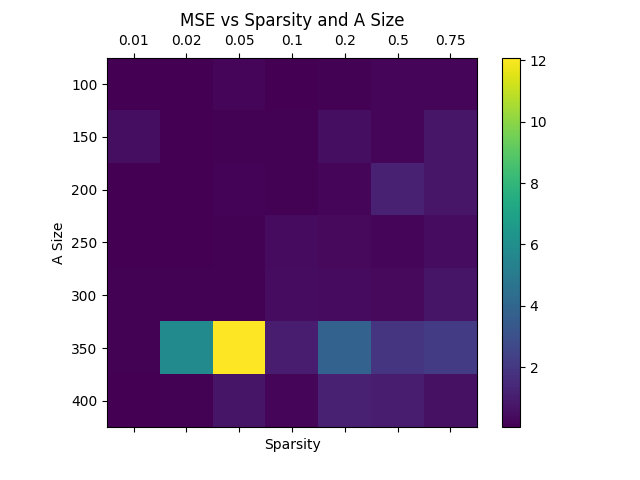
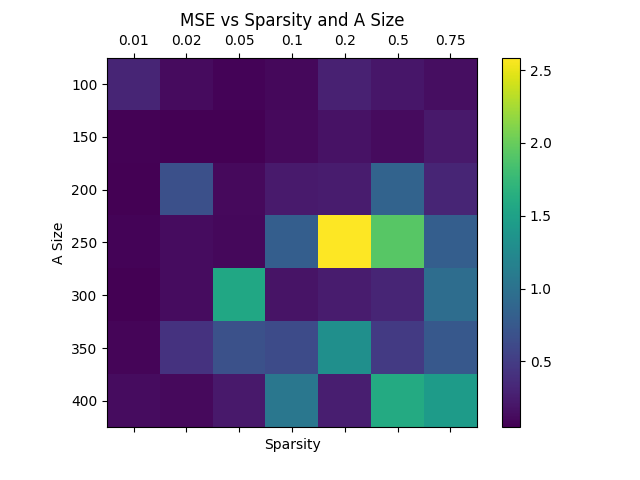
Manual Lasso

diff --git a/manual_lasso.py b/manual_lasso.py
@@ -1,0 +1,128 @@
+import numpy as np
+from typing import List, Any
+import matplotlib.pyplot as plt
+from sklearn.linear_model import Lasso
+from sklearn.model_selection import train_test_split, GridSearchCV
+from sklearn.metrics import mean_squared_error
+from typing import List, Any
+
+
+np.random.seed(200)
+
+x_size = 500
+A_probability = 0.5
+q = 1
+z_mean = 0
+sparsity_arr = [0.01, 0.02, 0.05, 0.1, 0.2, 0.5, 0.75]
+A_size_arr = [100, 150, 200, 250, 300, 350, 400]
+sigma_arr = [4]
+lambda_values = np.logspace(-4, 0, 50)
+
+
+def plot_mse(mse: List[Any], file_name) -> None:
+    fig, ax = plt.subplots()
+    cax = ax.matshow(mse, cmap='viridis')
+    fig.colorbar(cax)
+    
+    ax.set_xticks(np.arange(len(sparsity_arr)))
+    ax.set_xticklabels([str(s) for s in sparsity_arr])
+    ax.set_xlabel('Sparsity')
+
+    ax.set_yticks(np.arange(len(A_size_arr)))
+    ax.set_yticklabels([str(a) for a in A_size_arr])
+    ax.set_ylabel('A Size')
+    
+    plt.title('MSE vs Sparsity and A Size')
+    plt.savefig(file_name)
+
+
+def simulate(sigma) -> List[Any]:
+    mse_arr = []
+
+    for i in range(len(A_size_arr)):
+        mse_arr.append([])
+        for j in range(len(sparsity_arr)):
+            y_size = A_size_arr[i]
+            A = np.random.binomial(1, A_probability, (A_size_arr[i], 500))
+            sparsity = sparsity_arr[j]
+            x_true = np.zeros(x_size)
+            num_non_zero = int(sparsity * x_size)
+            non_zero_indices = np.random.choice(x_size, num_non_zero, replace=False)
+            x_true[non_zero_indices] = np.random.uniform(1, 1000, num_non_zero)
+            z_stddev = sigma
+            z_size = y_size
+            z = np.random.normal(z_mean, z_stddev, z_size)
+            y = [np.dot(A[i], x_true)*(1+q)**(z[i]) for i in range(y_size)]
+            y = np.array(y)
+            y_tilda = y/(1+q)**(z_stddev**2/2)
+            A_train, A_test, y_train, y_test = train_test_split(A, y_tilda, test_size=0.2, random_state=42)
+            best_lambda = None
+            best_mse = float('inf')
+            for lambda_val in lambda_values:
+                lasso = Lasso(alpha=lambda_val)
+                lasso.fit(A_train, y_train)
+                y_pred = lasso.predict(A_test)
+                mse = mean_squared_error(y_test, y_pred)
+                
+                if mse < best_mse:
+                    best_mse = mse
+                    best_lambda = lambda_val
+            print(f"The best lambda value for the size of A = {A_size_arr[i]} and sparsity of {sparsity_arr[j]} is: {best_lambda}.")
+            lasso = Lasso(alpha=best_lambda)
+            lasso.fit(A, y_tilda)
+            x = lasso.coef_
+            mse = np.sqrt(mean_squared_error(x, x_true))/np.linalg.norm(x_true)
+            mse_arr[i].append(np.log(mse))
+    return mse_arr
+
+
+def simulate_without_corrections(sigma) -> List[Any]:
+    mse_arr = []
+
+    for i in range(len(A_size_arr)):
+        mse_arr.append([])
+        for j in range(len(sparsity_arr)):
+            y_size = A_size_arr[i]
+            A = np.random.binomial(1, A_probability, (A_size_arr[i], 500))
+            sparsity = sparsity_arr[j]
+            x_true = np.zeros(x_size)
+            num_non_zero = int(sparsity * x_size)
+            non_zero_indices = np.random.choice(x_size, num_non_zero, replace=False)
+            x_true[non_zero_indices] = np.random.uniform(1, 1000, num_non_zero)
+            z_stddev = sigma
+            z_size = y_size
+            z = np.random.normal(z_mean, z_stddev, z_size)
+            y = [np.dot(A[i], x_true)*(1+q)**(z[i]) for i in range(y_size)]
+            y = np.array(y)
+            y_tilda = y
+            A_train, A_test, y_train, y_test = train_test_split(A, y_tilda, test_size=0.2, random_state=42)
+            best_lambda = None
+            best_mse = float('inf')
+            for lambda_val in lambda_values:
+                lasso = Lasso(alpha=lambda_val)
+                lasso.fit(A_train, y_train)
+                y_pred = lasso.predict(A_test)
+                mse = mean_squared_error(y_test, y_pred)
+                
+                if mse < best_mse:
+                    best_mse = mse
+                    best_lambda = lambda_val
+            print(f"The best lambda value for the size of A = {A_size_arr[i]} and sparsity of {sparsity_arr[j]} is: {best_lambda}.")
+            lasso = Lasso(alpha=best_lambda)
+            lasso.fit(A, y_tilda)
+            x = lasso.coef_
+
+            mse = np.sqrt(mean_squared_error(x, x_true))/np.linalg.norm(x_true)
+            mse_arr[i].append(np.log(mse))
+    return mse_arr
+
+
+if __name__ == "__main__":
+    print("Hi")
+    for sigma in sigma_arr:
+        mse = simulate(sigma)
+        plot_mse(mse, f"initial_sims_with_correction_{sigma}.png")
+        # print(mse)
+        mse = simulate_without_corrections(sigma)
+        plot_mse(mse, f"initial_sims_without_correction_{sigma}.png")
+

diff --git a/initial_simulations.py b/initial_simulations.py
@@ -14,7 +14,7 @@ q = 1
 z_mean = 0
 sparsity_arr = [0.01, 0.02, 0.05, 0.1, 0.2, 0.5, 0.75]
 A_size_arr = [100, 150, 200, 250, 300, 350, 400]
-sigma_arr = [1, 2, 3, 4]
+sigma_arr = [4]
 
 
 def plot_mse(mse: List[Any], file_name) -> None:
@@ -58,6 +58,10 @@ def simulate(sigma) -> List[Any]:
             lasso.fit(A, y_tilda)
             x = lasso.coef_
 
+            lasso1 = Lasso()
+            lasso1.fit(A, np.log(y_tilda+1e-12))
+            x = lasso1.coef_
+
             mse = np.sqrt(mean_squared_error(x, x_true))/np.linalg.norm(x_true)
             mse_arr[i].append(mse)
     return mse_arr
@@ -87,6 +91,10 @@ def simulate_without_corrections(sigma) -> List[Any]:
             lasso.fit(A, y)
             x = lasso.coef_
 
+            # lasso1 = Lasso()
+            # lasso1.fit(A, np.log(y+1e-12))
+            # x = lasso1.coef_
+            # print(x)
             mse = np.sqrt(mean_squared_error(x, x_true))/np.linalg.norm(x_true)
             mse_arr[i].append(mse)
     return mse_arr
@@ -96,6 +104,7 @@ if __name__ == "__main__":
     for sigma in sigma_arr:
         mse = simulate(sigma)
         plot_mse(mse, f"initial_sims_with_correction_{sigma}.png")
+        print(mse)
         mse = simulate_without_corrections(sigma)
         plot_mse(mse, f"initial_sims_without_correction_{sigma}.png")
 
